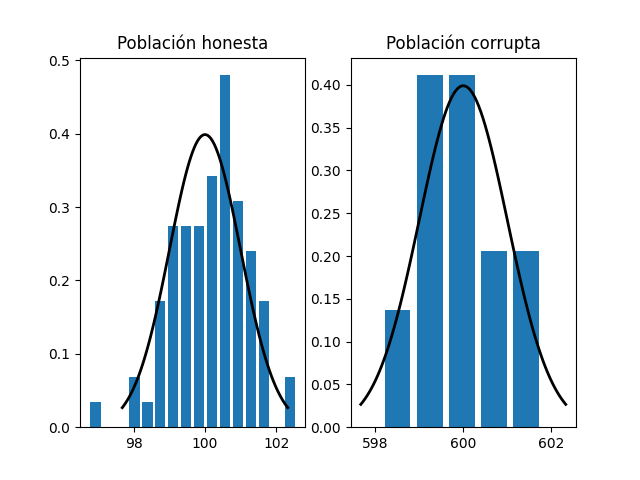
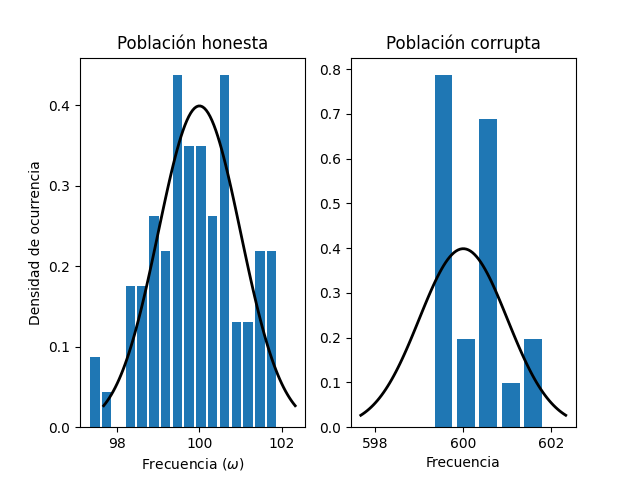
Added random seed, and axes label to plots

diff --git a/kuramoto_forced/mixing_populations_implementation.py b/kuramoto_forced/mixing_populations_implementation.py
@@ -26,9 +26,11 @@ corruption_freq = 600
 ## initialize distributions
 ### honest dist and sample
 honesty_normal_dist = st.norm(loc=honesty_freq, scale=1) ## centered at 100 and standar deviation 1
+np.random.seed(seed=346533)
 honesty_natfreqs_sample = honesty_normal_dist.rvs(size=honest_population) 
 ### corrupted dist and sample
 corruption_normal_dist = st.norm(loc=corruption_freq, scale=1) ## normal distribution centered at 100 and standar deviation 1
+np.random.seed(seed=346533)
 corruption_natfreqs_sample = corruption_normal_dist.rvs(size=corrupted_population) 
 ### population frequencies 
 pop_freqs = np.concatenate((honesty_natfreqs_sample, corruption_natfreqs_sample))
@@ -45,10 +47,13 @@ x2 = np.linspace(corruption_normal_dist.ppf(0.01), corruption_normal_dist.ppf(0.
 ax[0].plot(x, honesty_normal_dist.pdf(x), 'k-', lw=2, label='frozen pdf'); # pdf
 ax[0].hist(pop_freqs[:-corrupted_population], bins=int(honest_population/5), rwidth=0.8, density=True); # histogram of the sample
 ax[0].set_title('Población honesta')
+ax[0].set_xlabel(r'Frecuencia ($\omega$)')
+ax[0].set_ylabel('Densidad de ocurrencia')
 
 ax[1].plot(x2, corruption_normal_dist.pdf(x2), 'k-', lw=2, label='frozen pdf'); # pdf
 ax[1].hist(pop_freqs[-corrupted_population:], bins=int(population/20), rwidth=0.8, density=True); # histogram of the sample
 ax[1].set_title('Población corrupta')
+ax[1].set_xlabel('Frecuencia')
 
 initial_population_fig.savefig('figs/mixed_pop_initial_dist.png')
 plt.close(initial_population_fig)
@@ -62,7 +67,7 @@ model = Kuramoto(coupling=coupl, dt=dt, T=T, natfreqs=pop_freqs)
 act_mat = model.run(adj_mat=graph)
 
 ## plot of order parameter
-order_parameter_fig, ax = plot_phase_coherence(act_mat)
+order_parameter_fig, ax = plot_phase_coherence(act_mat, title='Parámetro de orden mezclando poblaciones de diferentes frecuencias')
 order_parameter_fig.savefig('figs/mixed_pop_order_parameter.png')
 plt.close(order_parameter_fig)
 
@@ -73,6 +78,8 @@ mean_frequencies = model.mean_frequency(act_mat=act_mat, adj_mat=graph)
 mean_frequencies_fig, ax = plt.subplots()
 ax.hist(mean_frequencies, bins=10, rwidth=0.8, density=True)
 ax.set_title('Histograma de las frecuencias medias')
+ax.set_xlabel(r'Frecuencia ($\omega$)')
+ax.set_ylabel(r'Densidad de ocurrencia')
 mean_frequencies_fig.savefig('figs/mixed_pop_mean_freqs.png')
 plt.close(mean_frequencies_fig)
 

diff --git a/kuramoto_forced/forcing_population_implementation.py b/kuramoto_forced/forcing_population_implementation.py
@@ -20,6 +20,7 @@ forcing_amp = 0.1
 ## initialize distributions
 ### distribution of the population frequencies cetered at honesty_freq
 population_normal_dist = st.norm(loc=honesty_freq, scale=2) ## centered at 100 and standar deviation 2
+np.random.seed(seed=346533)
 pop_natfreqs_sample = population_normal_dist.rvs(size=population) 
 
 ## plots of the samples histograms and distributions pdfs
@@ -29,6 +30,8 @@ x = np.linspace(population_normal_dist.ppf(0.01), population_normal_dist.ppf(0.9
 ax.plot(x, population_normal_dist.pdf(x), 'k-', lw=2, label='frozen pdf'); # pdf
 ax.hist(pop_natfreqs_sample, bins=int(population/10), rwidth=0.8, density=True); # histogram of the sample
 ax.set_title('Población')
+ax.set_xlabel(r'Frecuencia promedio ($\omega$)')
+ax.set_ylabel('Densidad de ocurrencias')
 
 
 initial_population_fig.savefig('figs/forced_pop_initial_pop.png')
@@ -55,5 +58,7 @@ mean_frequencies = model.mean_frequency(act_mat=act_mat, adj_mat=graph)
 mean_frequencies_fig, ax = plt.subplots()
 ax.hist(mean_frequencies, bins=10, rwidth=0.8, density=True)
 ax.set_title('Histograma de las frecuencias medias')
+ax.set_xlabel(r'Frecuencia ($\omega$)')
+ax.set_ylabel(r'Densidad de ocurrencia')
 mean_frequencies_fig.savefig('figs/forced_pop_mean_freqs.png')
 plt.close(mean_frequencies_fig)

diff --git a/kuramoto_forced/modules/plotting.py b/kuramoto_forced/modules/plotting.py
@@ -33,14 +33,14 @@ def plot_phase_coherence(activity, title=None):
         title = str(title)
         fig, ax = plt.subplots(figsize=(8, 4))
         ax.plot([Kuramoto.phase_coherence(vec) for vec in activity.T], 'o')
-        ax.set_ylabel('Order parameter', fontsize=20)
-        ax.set_xlabel('Time', fontsize=20)
+        ax.set_ylabel('Parámetro de orden')
+        ax.set_xlabel('Tiempo')
         ax.set_ylim((-0.01, 1))
         ax.set_title(title)
     else:
         fig, ax = plt.subplots(figsize=(8, 4))
         ax.plot([Kuramoto.phase_coherence(vec) for vec in activity.T], 'o')
-        ax.set_ylabel('Order parameter', fontsize=20)
-        ax.set_xlabel('Time', fontsize=20)
+        ax.set_ylabel('Parámetro de orden')
+        ax.set_xlabel('Tiempo')
         ax.set_ylim((-0.01, 1))
     return fig, ax
